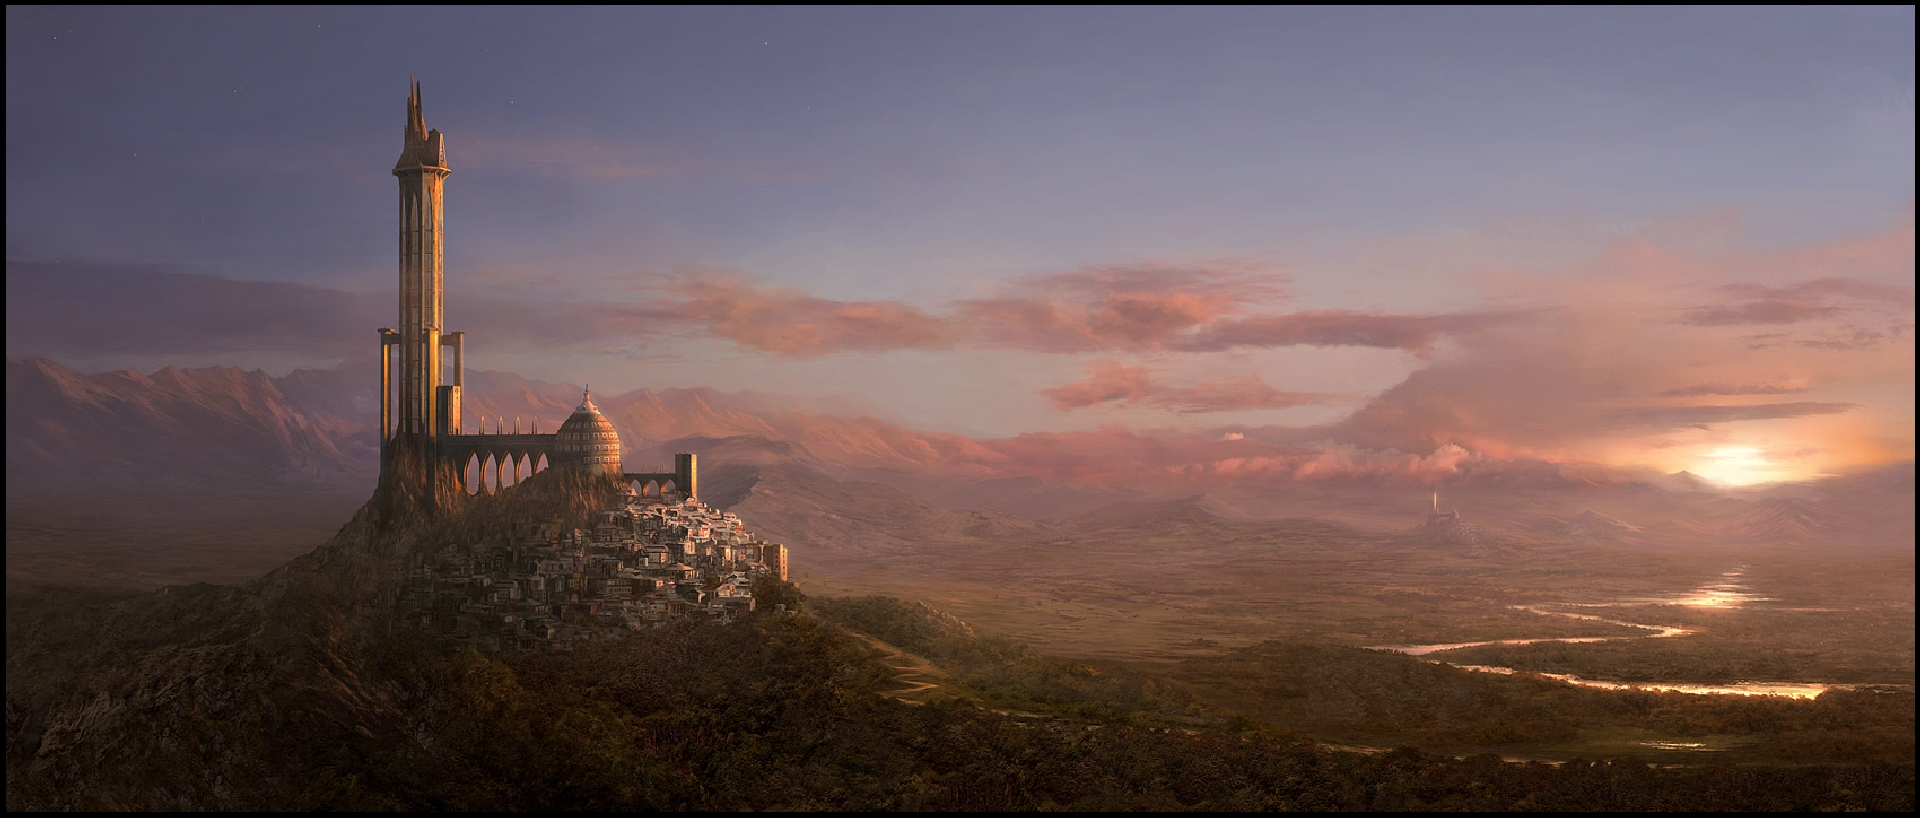
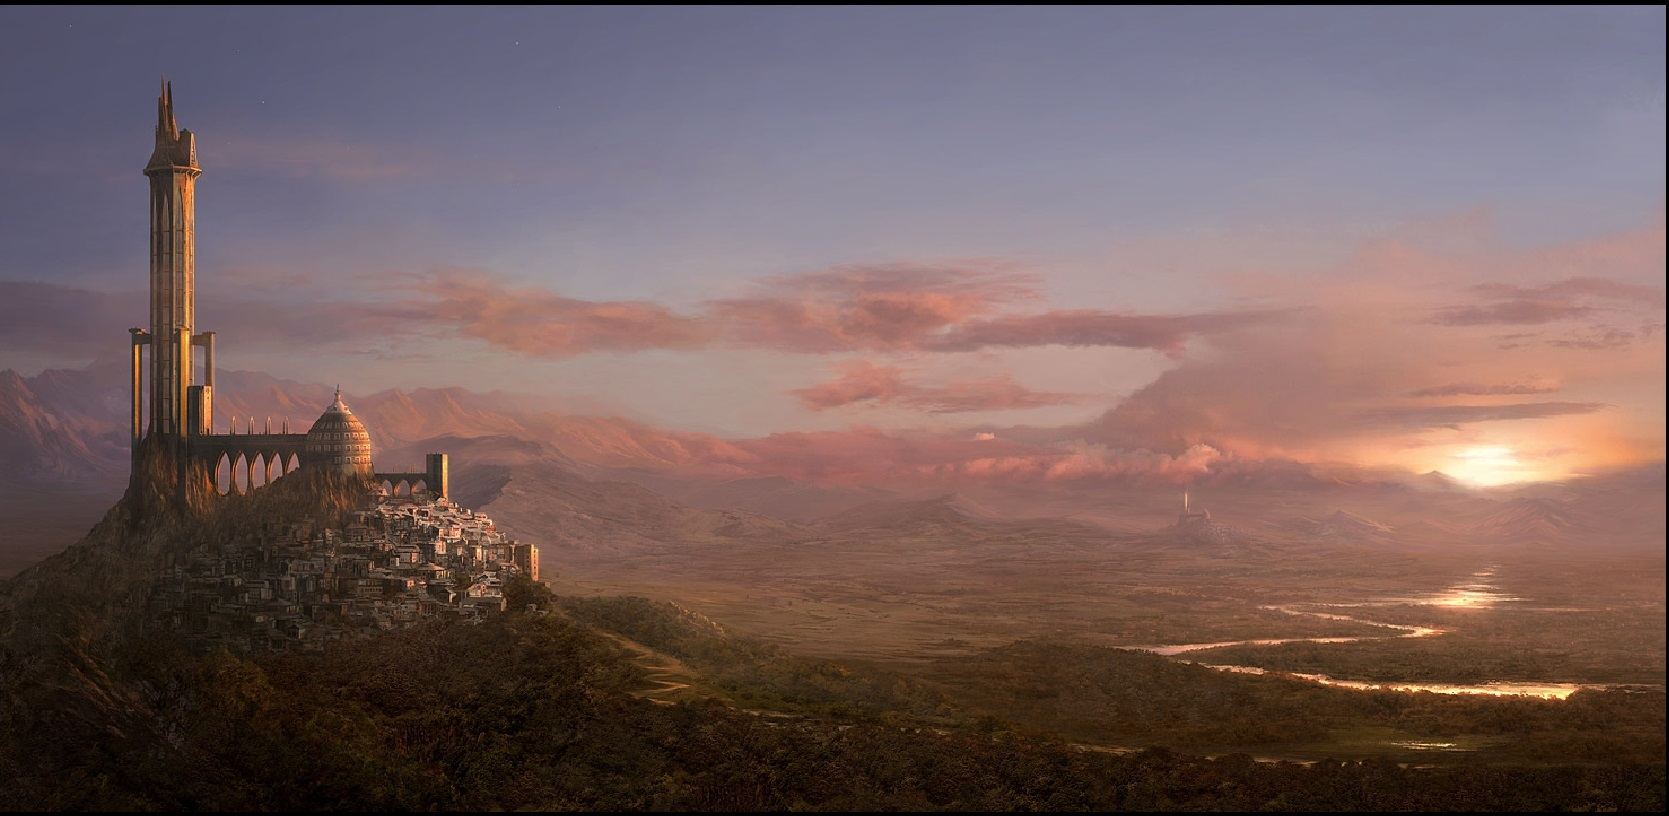
added internationalization + adjusted backgrounds

diff --git a/src/main/java/com/xmage/launcher/XMageLauncher.java b/src/main/java/com/xmage/launcher/XMageLauncher.java
@@ -17,6 +17,8 @@ import java.io.File;
 import java.io.FilenameFilter;
 import java.io.IOException;
 import java.net.URL;
+import java.util.Random;
+import java.util.ResourceBundle;
 import java.util.concurrent.CountDownLatch;
 import javax.swing.Box;
 import javax.swing.ImageIcon;
@@ -43,6 +45,9 @@ import org.slf4j.LoggerFactory;
 public class XMageLauncher implements Runnable {
     
     private static final Logger logger = LoggerFactory.getLogger(XMageLauncher.class);
+    private static final String version = "1.0";
+    
+    private final ResourceBundle messages;
     
     private final JFrame frame;
     private final JLabel mainPanel;
@@ -63,7 +68,8 @@ public class XMageLauncher implements Runnable {
     private Process serverProcess;
     
     private XMageLauncher() {
-        frame = new JFrame("XMage Launcher");
+        messages = ResourceBundle.getBundle("MessagesBundle");
+        frame = new JFrame(messages.getString("frameTitle"));
         frame.setDefaultCloseOperation(JFrame.EXIT_ON_CLOSE);
         frame.setPreferredSize(new Dimension(800, 500));
         frame.setResizable(false);
@@ -71,8 +77,9 @@ public class XMageLauncher implements Runnable {
        
         ImageIcon icon = new ImageIcon(XMageLauncher.class.getResource("/icon-mage-flashed.png"));
         frame.setIconImage(icon.getImage());
-       
-        int imageNum = 1 + (int)(Math.random() * 18);
+        
+        Random r = new Random();
+        int imageNum = 1 + r.nextInt(17);
         ImageIcon background = new ImageIcon(new ImageIcon(XMageLauncher.class.getResource("/backgrounds/" + Integer.toString(imageNum) + ".jpg")).getImage().getScaledInstance(800, 500, Image.SCALE_SMOOTH));
         mainPanel = new JLabel(background) {
             @Override
@@ -87,7 +94,6 @@ public class XMageLauncher implements Runnable {
         mainPanel.setLayout(new GridBagLayout());
         
         GridBagConstraints constraints = new GridBagConstraints();
-        //constraints.anchor = GridBagConstraints.WEST;
         constraints.insets = new Insets(10, 10, 10, 10);
     
         Font font14 = new Font("Arial", Font.BOLD, 14);
@@ -96,7 +102,7 @@ public class XMageLauncher implements Runnable {
         mainPanel.add(Box.createHorizontalStrut(250));
         mainPanel.add(Box.createVerticalStrut(50));
 
-        xmageInfo = new JLabel("<html><b>XMage Launcher version 1.0</b></html>", JLabel.RIGHT);
+        xmageInfo = new JLabel("<html><b>" + messages.getString("launcherVersion") + version + "</b></html>", JLabel.RIGHT);
         xmageInfo.setForeground(Color.WHITE);
         xmageInfo.setFont(font12);
         constraints.gridx = 4;
@@ -117,8 +123,8 @@ public class XMageLauncher implements Runnable {
         constraints.fill = GridBagConstraints.BOTH;
         mainPanel.add(xmageLogo, constraints);
         
-        btnLaunchClient = new JButton("<html><center>Launch<br>Client</html>");
-        btnLaunchClient.setToolTipText("<html>Launch Client application only - use this if you will be connecting to a remote XMage server to play against others.</html>");
+        btnLaunchClient = new JButton(messages.getString("launchClient"));
+        btnLaunchClient.setToolTipText(messages.getString("launchClient.tooltip"));
         btnLaunchClient.setFont(font14);
         btnLaunchClient.setForeground(Color.GRAY);
         btnLaunchClient.setEnabled(false);
@@ -136,8 +142,8 @@ public class XMageLauncher implements Runnable {
         constraints.fill = GridBagConstraints.HORIZONTAL;
         mainPanel.add(btnLaunchClient, constraints);
         
-        btnLaunchClientServer = new JButton("<html><center>Launch Client<br>and Server</html>");
-        btnLaunchClientServer.setToolTipText("<html>Launch Client and Server applications - use this if you will be playing locally against an AI</html>");
+        btnLaunchClientServer = new JButton(messages.getString("launchClientServer"));
+        btnLaunchClientServer.setToolTipText(messages.getString("launchClientServer.tooltip"));
         btnLaunchClientServer.setFont(font14);
         btnLaunchClientServer.setEnabled(false);
         btnLaunchClientServer.setForeground(Color.GRAY);
@@ -153,8 +159,8 @@ public class XMageLauncher implements Runnable {
         constraints.gridx = 2;
         mainPanel.add(btnLaunchClientServer, constraints);
 
-        btnLaunchServer = new JButton("<html><center>Launch<br>Server</html>");
-        btnLaunchServer.setToolTipText("<html>Launch Server application only - use this if you want run an XMage server.  Additional network configuration may be necessary to allow clients to connect.</html>");
+        btnLaunchServer = new JButton(messages.getString("launchServer"));
+        btnLaunchServer.setToolTipText(messages.getString("launchServer.tooltip"));
         btnLaunchServer.setFont(font14);
         btnLaunchServer.setEnabled(false);
         btnLaunchServer.setForeground(Color.GRAY);
@@ -169,7 +175,7 @@ public class XMageLauncher implements Runnable {
         constraints.gridx = 3;
         mainPanel.add(btnLaunchServer, constraints);
 
-        btnClose = new JButton("Close");
+        btnClose = new JButton(messages.getString("close"));
         btnClose.setFont(font14);
         btnClose.addActionListener(new ActionListener() {
             @Override
@@ -200,7 +206,7 @@ public class XMageLauncher implements Runnable {
         constraints.fill = GridBagConstraints.BOTH;
         mainPanel.add(scrollPane, constraints);
         
-        labelProgress = new JLabel("<html><b>Progress:</b></html>");
+        labelProgress = new JLabel(messages.getString("progress"));
         labelProgress.setFont(font12);
         labelProgress.setForeground(Color.WHITE);
         constraints.gridy = 2;
@@ -226,12 +232,12 @@ public class XMageLauncher implements Runnable {
     private void handleServer() {
         if (serverProcess == null) {
             serverProcess = Utilities.launchServerProcess(textArea);
-            btnLaunchServer.setText("Stop Server");
+            btnLaunchServer.setText(messages.getString("stopServer"));
         }
         else {
             Utilities.stopProcess(serverProcess);
             serverProcess = null;
-            btnLaunchServer.setText("Launch Server");
+            btnLaunchServer.setText(messages.getString("launchServer"));
         }
     }
     
@@ -258,7 +264,7 @@ public class XMageLauncher implements Runnable {
             @Override
             public void windowClosing(WindowEvent e) {
                 if (serverProcess != null) {
-                    int response = JOptionPane.showConfirmDialog(frame, "XMage server is currently running.  Do you want to stop it?  If you don't then you will need to stop it manually.", "Server is running", JOptionPane.YES_NO_OPTION);
+                    int response = JOptionPane.showConfirmDialog(frame, messages.getString("serverRunning.message"), messages.getString("serverRunning.title"), JOptionPane.YES_NO_OPTION);
                     if (response == JOptionPane.YES_OPTION) {
                         Utilities.stopProcess(serverProcess);
                     }
@@ -270,21 +276,21 @@ public class XMageLauncher implements Runnable {
         try {
             URL xmageUrl = new URL(Config.getXMageHome() + "/config.json");
             try {
-                textArea.append("Reading config from " + xmageUrl.toString() + "\n");
+                textArea.append(messages.getString("readingConfig") + xmageUrl.toString() + "\n");
                 config = Utilities.readJsonFromUrl(xmageUrl);
             } catch (IOException ex) {
                 logger.error("Error reading config from " + xmageUrl.toString(), ex);
-                textArea.append("Error reading config from " + xmageUrl.toString() + "\nPossible causes:  Site is offline or internet connection is unavailable.\n");
+                textArea.append(messages.getString("readingConfig.error") + xmageUrl.toString() + "\n" + messages.getString("readingConfig.error.causes") + "\n");
                 enableButtons();
                 return;
             } catch (JSONException ex) {
                 logger.error("Invalid config from " + xmageUrl.toString(), ex);
-                textArea.append("Invalid config from " + xmageUrl.toString() + "\n");
+                textArea.append(messages.getString("invalidConfig") + xmageUrl.toString() + "\n");
                 enableButtons();
                 return;
             }
             path = Utilities.getInstallPath();
-            textArea.append("XMage folder:  " + path.getAbsolutePath() + "\n");
+            textArea.append(messages.getString("folder") + path.getAbsolutePath() + "\n");
             CountDownLatch latch = new CountDownLatch(1);
             DownloadJavaTask java = new DownloadJavaTask(latch, progressBar);
             DownloadXMageTask xmage = new DownloadXMageTask(latch, progressBar);
@@ -292,7 +298,7 @@ public class XMageLauncher implements Runnable {
             xmage.execute();
         } catch (Exception ex) {
             logger.error("Error: ", ex);
-            textArea.append("Error: " + ex.getMessage());
+            textArea.append(messages.getString("error") + ex.getMessage());
         }        
               
     }
@@ -310,11 +316,11 @@ public class XMageLauncher implements Runnable {
                 btnLaunchServer.setForeground(Color.BLACK);
             }
             else {
-                textArea.append("XMage is not installed.  Unable to continue.");
+                textArea.append(messages.getString("noXMage"));
             }
         }
         else {
-            textArea.append("Java is not installed.  Unable to continue.");
+            textArea.append(messages.getString("noJava"));
         }
     }
     
@@ -333,39 +339,42 @@ public class XMageLauncher implements Runnable {
                 File javaFolder = new File(path.getAbsolutePath() + File.separator + "java");
                 String javaAvailableVersion = (String)config.getJSONObject("java").get(("version"));
                 String javaInstalledVersion = Config.getInstalledJavaVersion();
-                textArea.append("Java version installed:  " + javaInstalledVersion + "\n");
-                textArea.append("Java version available:  " + javaAvailableVersion + "\n");
+                textArea.append(messages.getString("java.installed") + javaInstalledVersion + "\n");
+                textArea.append(messages.getString("java.available") + javaAvailableVersion + "\n");
                 if (!javaAvailableVersion.equals(javaInstalledVersion)) {
                     String javaMessage = "";
+                    String javaTitle = "";
                     if (javaInstalledVersion.isEmpty()) {
-                        textArea.append("Java not found.\n");
-                        javaMessage = "It looks like this is the first time you are running the XMage Launcher.\nThe Launcher maintains it's own dedicated version of java.\nEven if you have already installed Java the Launcher needs to download it's own version.\n";
+                        textArea.append(messages.getString("java.none") + "\n");
+                        javaMessage = messages.getString("java.none.message");
+                        javaTitle = messages.getString("java.none");
                     }
                     else {
-                        textArea.append("New version of Java available.\n");
-                        javaMessage = "A newer version of Java is available.\n";
+                        textArea.append(messages.getString("java.new") + "\n");
+                        javaMessage = messages.getString("java.new.message");
+                        javaTitle = messages.getString("java.new");
                     }
-                    int response = JOptionPane.showConfirmDialog(frame, javaMessage + "Would you like to install it now?", "New Version Available", JOptionPane.YES_NO_OPTION);
+                    int response = JOptionPane.showConfirmDialog(frame, "<html>" + javaMessage + messages.getString("installNow") + "</html>", javaTitle, JOptionPane.YES_NO_OPTION);
                     if (response == JOptionPane.YES_OPTION) {
                         if (javaFolder.isDirectory()) {  //remove existing install
-                            textArea.append("Removing previous versions ...\n");
+                            textArea.append(messages.getString("removing") + "\n");
                             removeJavaFiles(javaFolder);
                         }
                         javaFolder.mkdirs();
                         String javaRemoteLocation = (String)config.getJSONObject("java").get(("location"));
                         URL java = new URL(javaRemoteLocation + Utilities.getOSandArch() + ".tar.gz");
-                        textArea.append("Downloading Java from " + java.toString() + "\n");
+                        textArea.append(messages.getString("java.downloading") + java.toString() + "\n");
 
                         download(java, path.getAbsolutePath(), "oraclelicense=accept-securebackup-cookie");
                         
                         File from = new File(path.getAbsolutePath() + File.separator + "xmage.dl");
-                        textArea.append("Installing Java ...\n");
+                        textArea.append(messages.getString("java.installing") + "\n");
 
                         extract(from, javaFolder);
-                        textArea.append("Done\n");
+                        textArea.append(messages.getString("done") + "\n");
                         progressBar.setValue(0);
                         if (!from.delete()) {
-                            textArea.append("ERROR: could not cleanup temporary files\n");
+                            textArea.append(messages.getString("error.cleanup") + "\n");
                             logger.error("Error: could not cleanup temporary files");
                         }
                         Config.setInstalledJavaVersion(javaAvailableVersion);
@@ -420,31 +429,42 @@ public class XMageLauncher implements Runnable {
                 File xmageFolder = new File(path.getAbsolutePath() + File.separator + "xmage");
                 String xmageAvailableVersion = (String)config.getJSONObject("XMage").get(("version"));
                 String xmageInstalledVersion = Config.getInstalledXMageVersion();
-                textArea.append("XMage version installed:  " + xmageInstalledVersion + "\n");
-                textArea.append("XMage version available:  " + xmageAvailableVersion + "\n");                
+                textArea.append(messages.getString("xmage.installed") + xmageInstalledVersion + "\n");
+                textArea.append(messages.getString("xmage.available") + xmageAvailableVersion + "\n");                
                 if (!xmageAvailableVersion.equals(xmageInstalledVersion)) {
-                    textArea.append("New version of XMage available.  \n");
-                    int response = JOptionPane.showConfirmDialog(frame, "A newer version of XMage is available.\nWould you like to install it?", "New Version Available", JOptionPane.YES_NO_OPTION);
+                    String xmageMessage = "";
+                    String xmageTitle = "";
+                    if (xmageInstalledVersion.isEmpty()) {
+                        textArea.append(messages.getString("xmage.none") + "\n");
+                        xmageMessage = messages.getString("xmage.none.message");
+                        xmageTitle = messages.getString("xmage.none");
+                    }
+                    else {
+                        textArea.append(messages.getString("xmage.new") + "\n");
+                        xmageMessage = messages.getString("xmage.new.message");
+                        xmageTitle = messages.getString("xmage.new");
+                    }
+                    int response = JOptionPane.showConfirmDialog(frame, "<html>" + xmageMessage + messages.getString("installNow") + "</html>", xmageTitle, JOptionPane.YES_NO_OPTION);
                     if (response == JOptionPane.YES_OPTION) {
                         if (xmageFolder.isDirectory()) {  //remove existing install
-                            textArea.append("Removing old files ...\n");
+                            textArea.append(messages.getString("removing") + "\n");
                             removeXMageFiles(xmageFolder);
                         }
                         xmageFolder.mkdirs();
                         String xmageRemoteLocation = (String)config.getJSONObject("XMage").get(("location"));
                         URL xmage = new URL(xmageRemoteLocation);
-                        textArea.append("Downloading XMage from " + xmage.toString() + "\n");
+                        textArea.append(messages.getString("xmage.downloading") + xmage.toString() + "\n");
 
                         download(xmage, path.getAbsolutePath(), "");
 
                         File from = new File(path.getAbsolutePath() + File.separator + "xmage.dl");
-                        textArea.append("Installing XMage ...\n");
+                        textArea.append(messages.getString("xmage.installing"));
 
                         unzip(from, xmageFolder);
-                        textArea.append("Done\n");
+                        textArea.append(messages.getString("done") + "\n");
                         progressBar.setValue(0);
                         if (!from.delete()) {
-                            textArea.append("ERROR: could not cleanup temporary files\n");
+                            textArea.append(messages.getString("error.cleanup") + "\n");
                             logger.error("Error: could not cleanup temporary files");
                         }
                         Config.setInstalledXMageVersion(xmageAvailableVersion);
